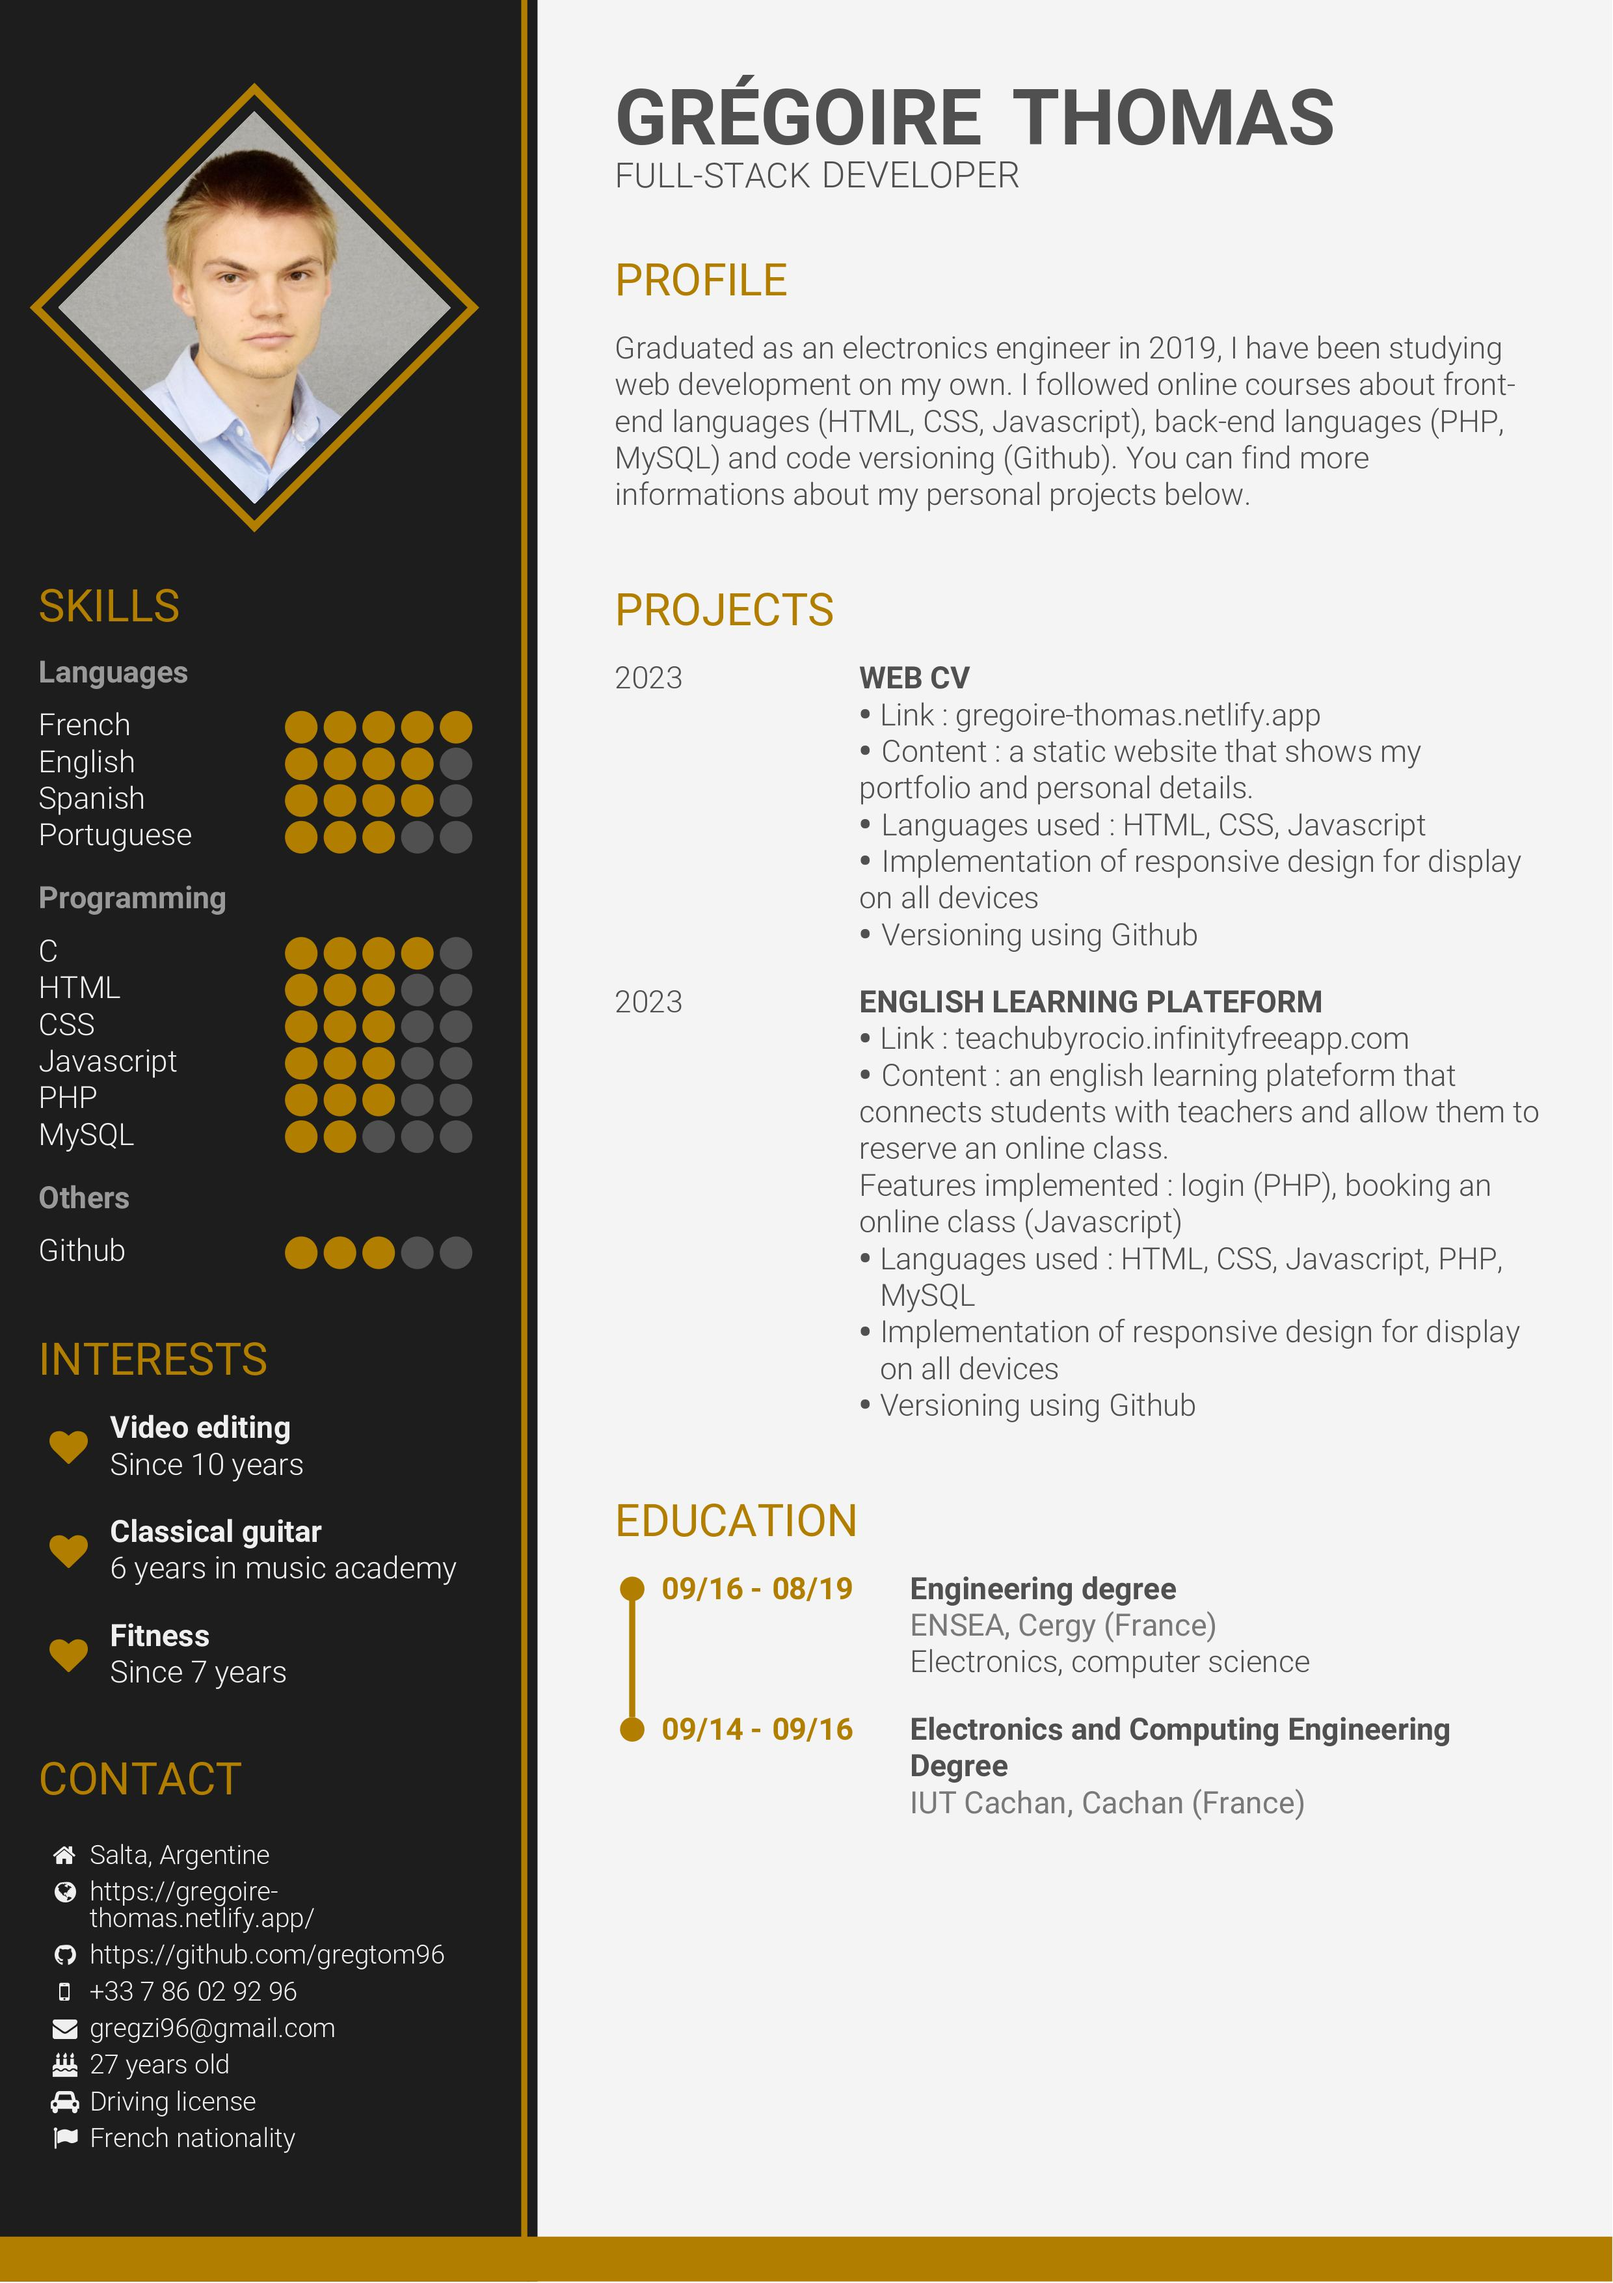
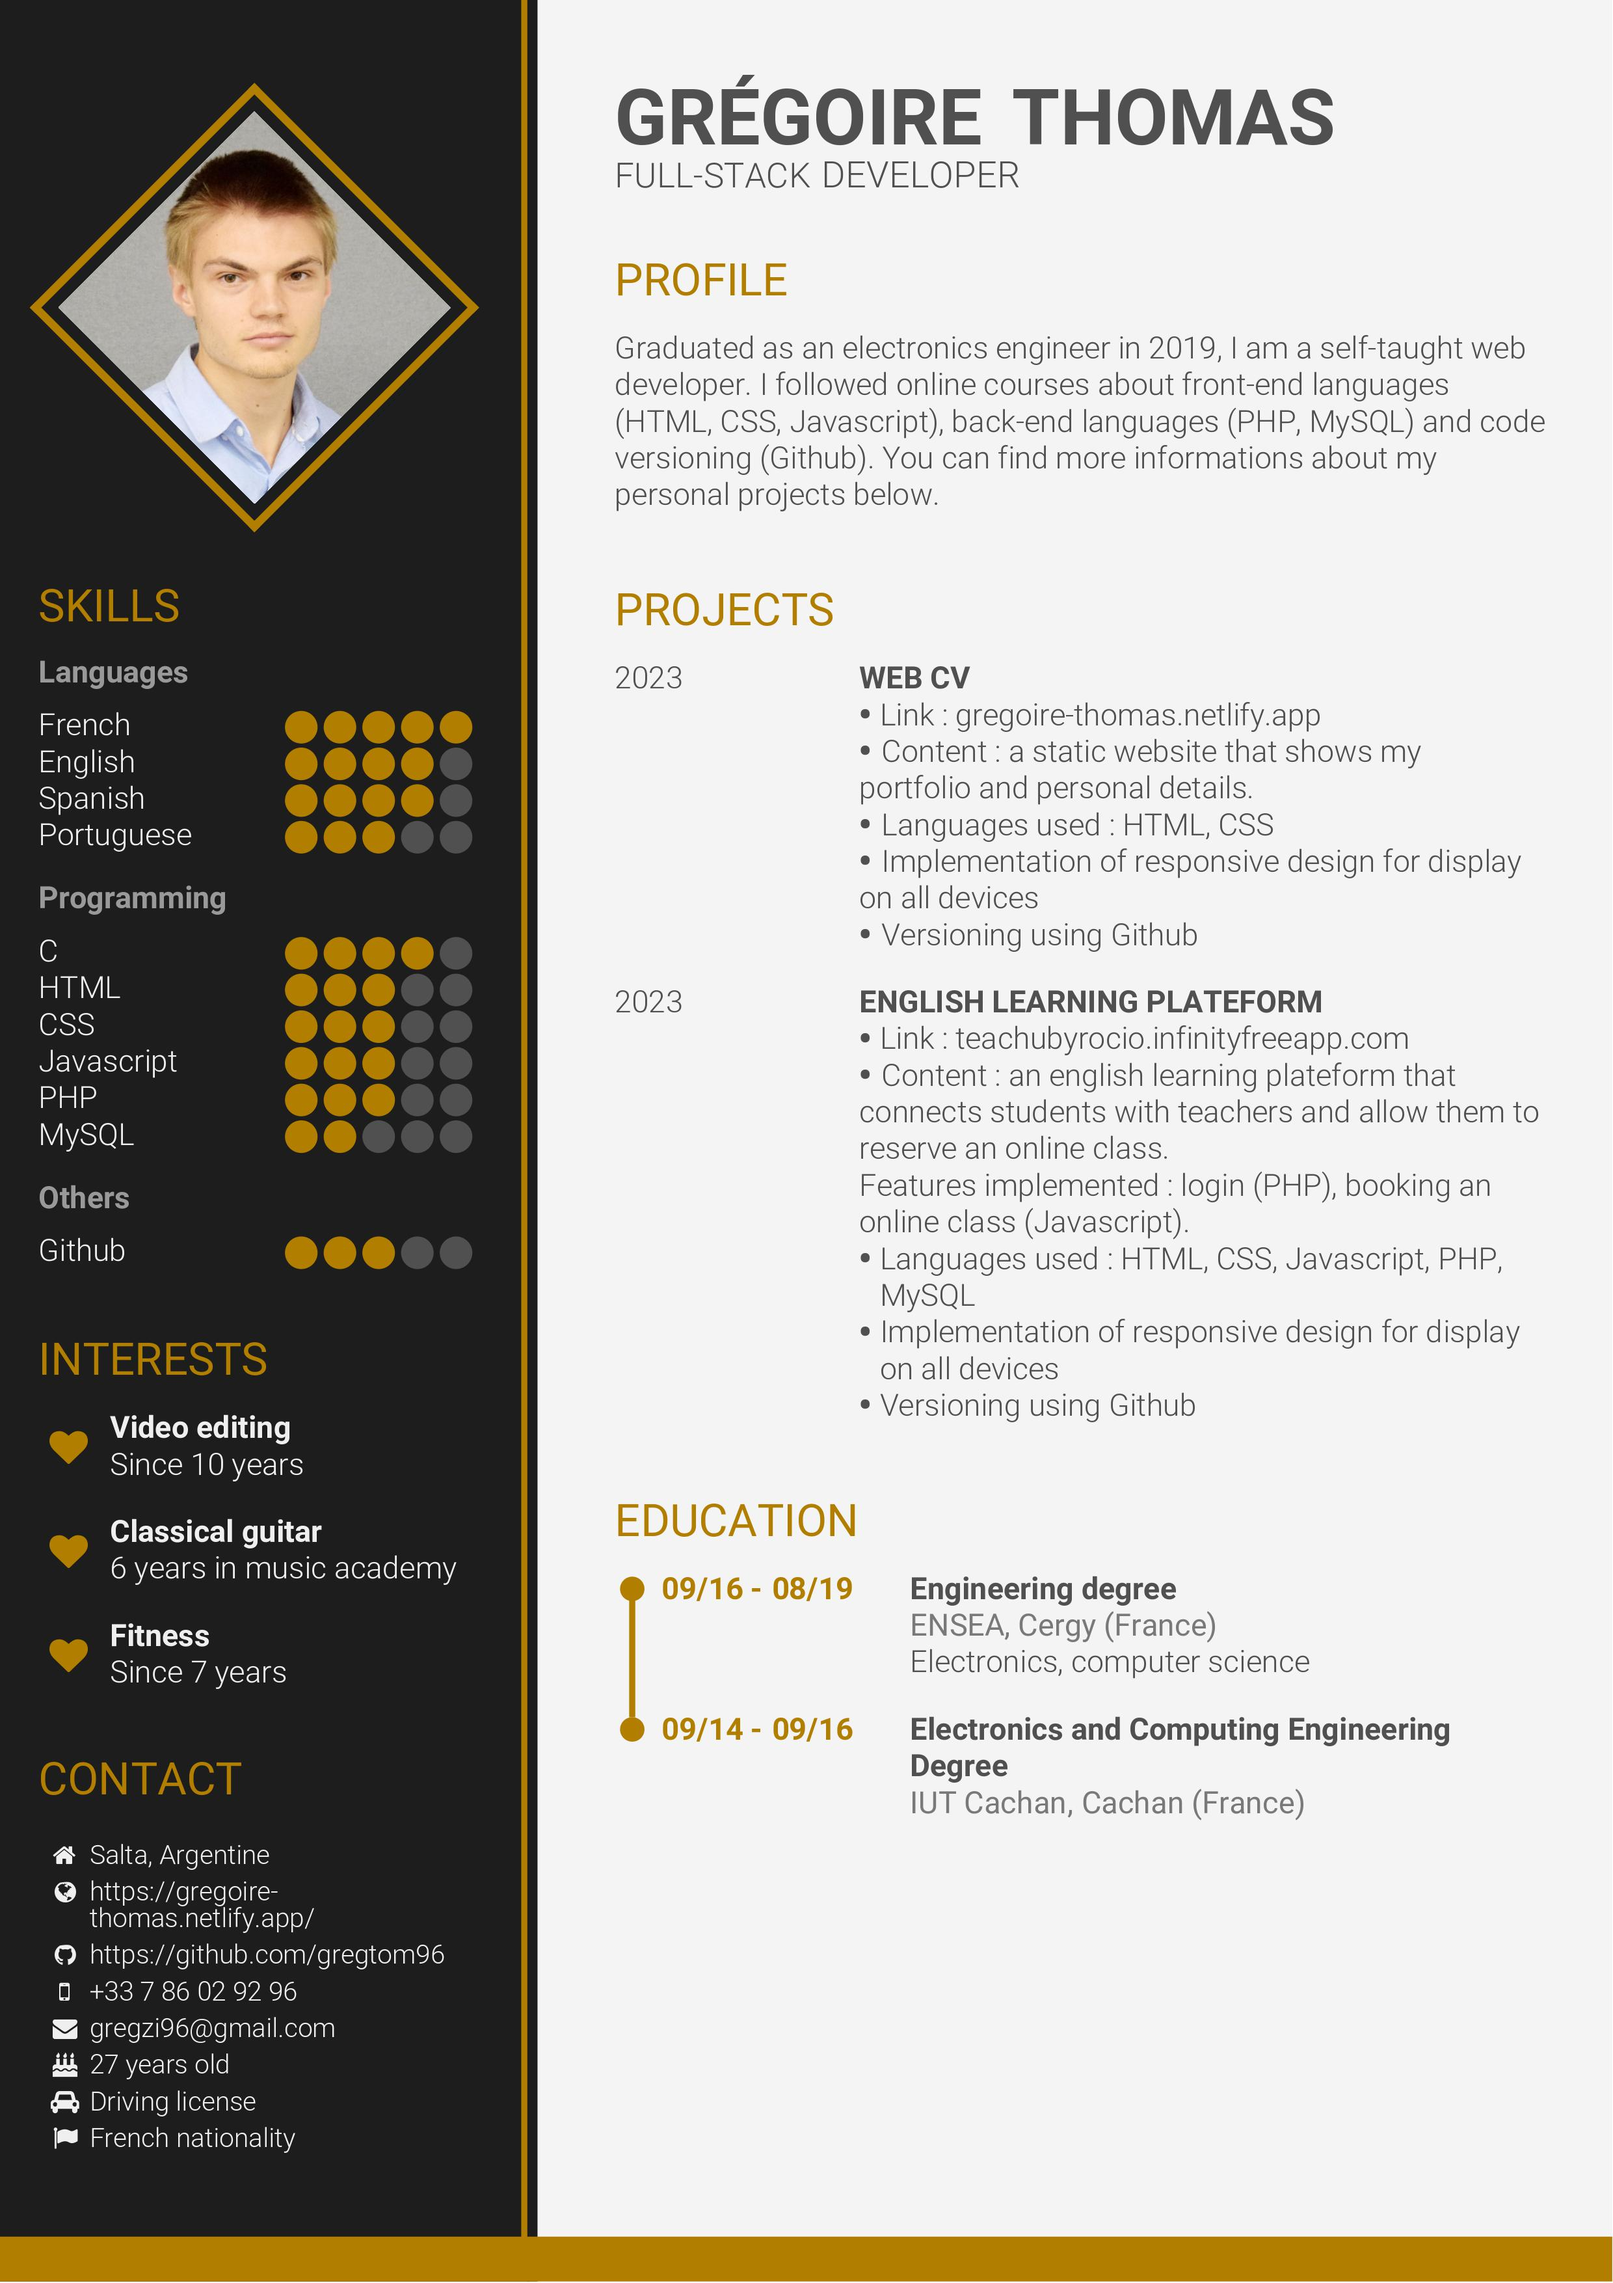
change font-style and update CV

Changed region(s): [[0.3726, 0.1553, 0.9315, 0.2174]]

diff --git a/index.html b/index.html
@@ -10,15 +10,13 @@
 		<link href="style/index.css" rel="stylesheet">
 		<link rel="preconnect" href="https://fonts.googleapis.com">
 		<link rel="preconnect" href="https://fonts.gstatic.com" crossorigin>
-		<link href="https://fonts.googleapis.com/css2?family=Nova+Square&display=swap" rel="stylesheet">
+		<link href="https://fonts.googleapis.com/css2?family=Nova+Square&family=Permanent+Marker&display=swap" rel="stylesheet">
 	</head>
 	
 	<body>
 		<main>
 			<div class="element title">
-				<h1> Grégoire Thomas <br>
-					Full-stack developer 
-				</h1>
+				<h1> Full-stack developer </h1>
 			</div>
 			<div class="element bresil">
 				<img src="images/bresil.jpg" alt="profile picture"/>
@@ -26,8 +24,8 @@
 			<div class="element a-propos">
 				<h1> About me </h1>
 				<p>
-					Graduated as an electronics engineer in 2019, I have been studying web development
-					on my own, following online courses. <br>
+					Graduated as an electronics engineer in 2019, I am a self-taught web developer. <br>
+					Now based in Salta (Argentina), I did all my studies in France. <br>
 					You can explore my personal projects in the Portfolio section.
 				</p>
 			</div>

diff --git a/style/index.css b/style/index.css
@@ -12,7 +12,7 @@ main{
 .title{
 	grid-column: 1/4;
 	color: white;
-	font-family: "Nova Square", sans-serif;
+	font-family: "Permanent Marker", sans-serif;
 	font-size: 2em;
 	text-align: center;
 	padding: 0;
